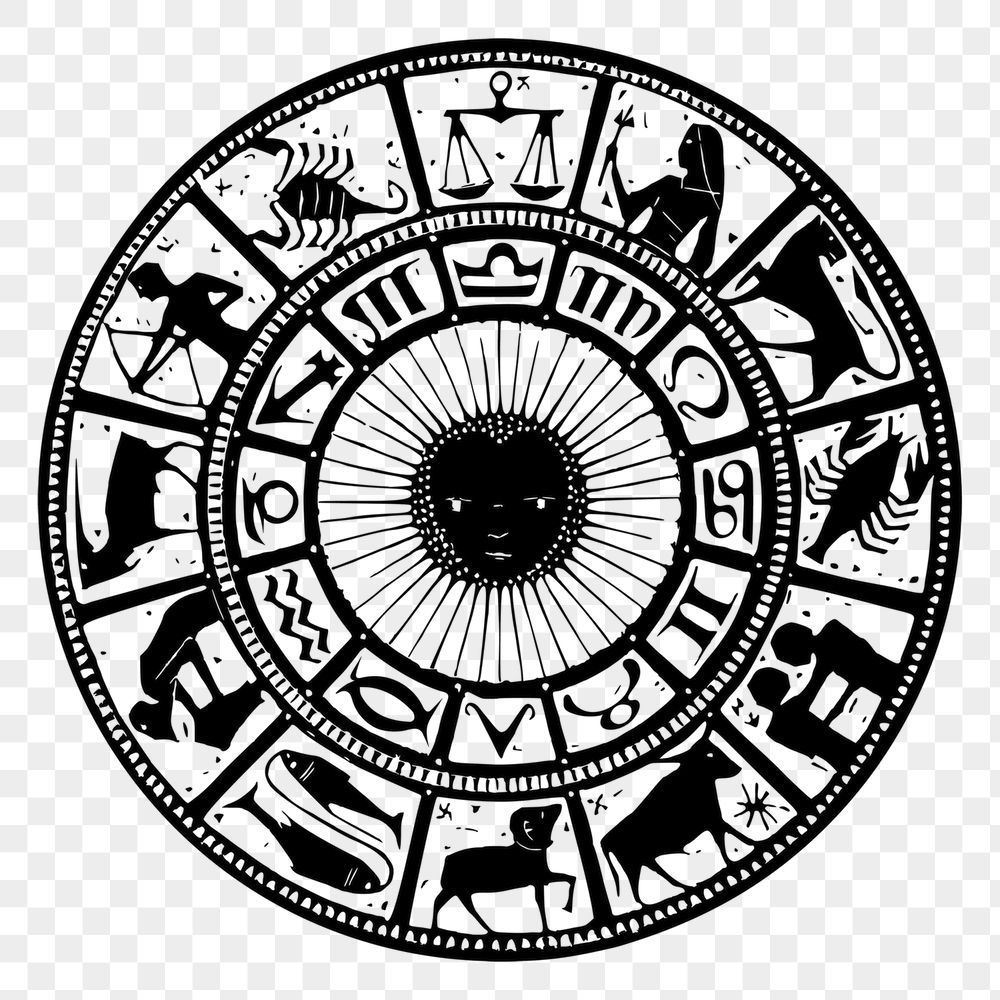
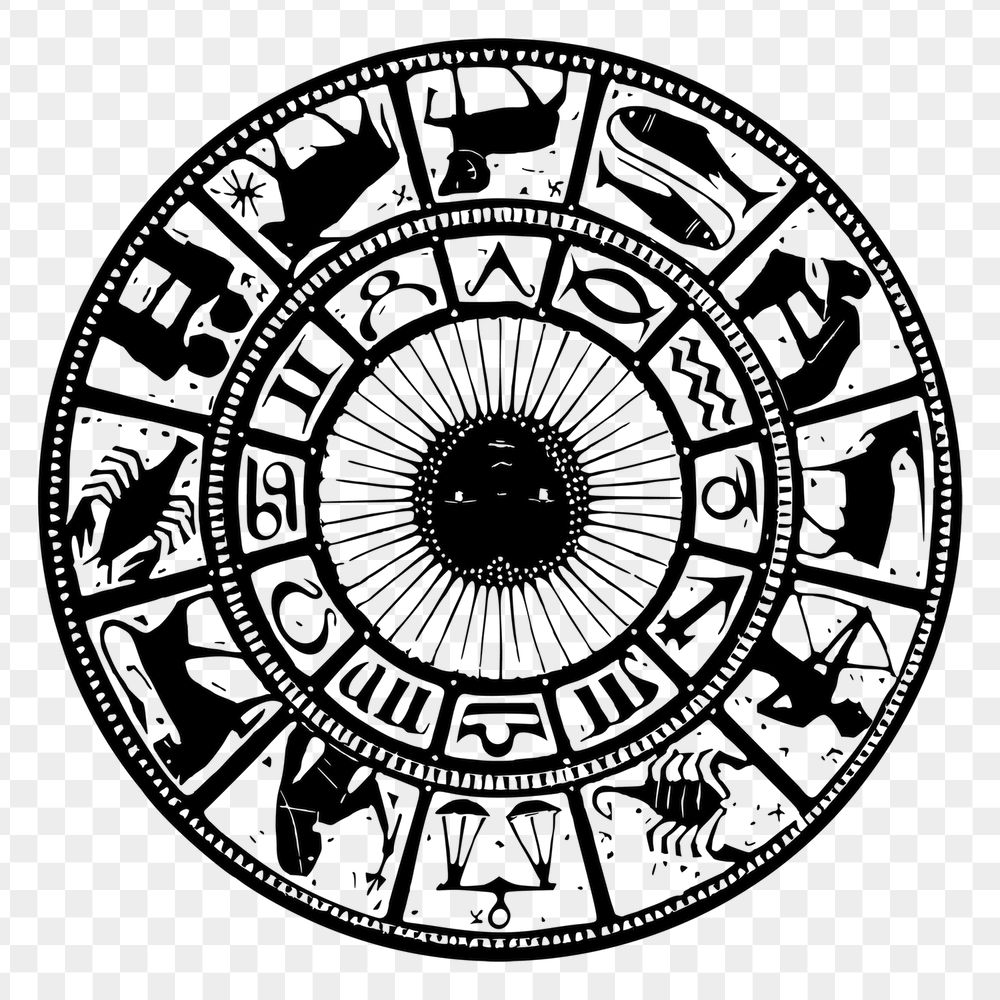
Added year counter to UI. It is troublesome but it works..
Added year counter to UI. It is troublesome but it works..

Changed region(s): [[0.031, 0.031, 0.961, 0.961]]

diff --git a/Assets/TimeController.cs b/Assets/TimeController.cs
@@ -5,6 +5,7 @@ using UnityEngine.UIElements;
 
 public class TimeController : MonoBehaviour
 {
+    [SerializeField] GameObject theZodiac; 
     [SerializeField] GameObject theEarth; 
     [SerializeField] GameObject theEarthContainer; 
      [SerializeField] GameObject theSun;
@@ -28,12 +29,23 @@ public class TimeController : MonoBehaviour
 
     //this is the angle the earth moves around the sun  ...in one year
     [SerializeField] float timeMultiplier;
+
+    [SerializeField] float greatYearAngle;
+    [SerializeField] float ageAngle;
+    [SerializeField] float precessionYearsPerDegree;
+    [SerializeField] float precessionOfTheSunAngleInYear;
+    [SerializeField] float precessionOfTheSunAngleInDay;
+    [SerializeField] float precessionOfTheSunAngleInHour;
+    [SerializeField] float precessionOfTheSunAngleInMinute;
+    [SerializeField] float precessionOfTheSunAngleInSecond;
+
     [SerializeField] float earthAroundSunAngleInYear;
     [SerializeField] float earthAroundSunAngleInMonth;
     [SerializeField] float earthAroundSunAngleInDay;
     [SerializeField] float earthAroundSunAngleInHour;
     [SerializeField] float earthAroundSunAngleInMinute;
     [SerializeField] float earthAroundSunAngleInSecond;
+
     [SerializeField] float earthRotationAngleInDay;
     [SerializeField] float earthRotationAngleInHour;
     [SerializeField] float earthRotationAngleInMinute;
@@ -58,6 +70,15 @@ public class TimeController : MonoBehaviour
 
     void Start()
     {
+        //this is the precession of the equinoxes - one full rotation in 25,800 years
+        greatYearAngle = -360;
+        ageAngle = greatYearAngle / 12;
+        precessionYearsPerDegree = 25800 / 360;
+        precessionOfTheSunAngleInYear = greatYearAngle / 25800;
+        precessionOfTheSunAngleInDay = precessionOfTheSunAngleInYear / 360;
+        precessionOfTheSunAngleInHour = precessionOfTheSunAngleInDay / 24;
+        precessionOfTheSunAngleInMinute = precessionOfTheSunAngleInHour / 60;
+        precessionOfTheSunAngleInSecond = precessionOfTheSunAngleInMinute / 60; 
 
         //this is the angle the earth revolves around the sun  
         earthAroundSunAngleInYear = -360;                               // ...in one year
@@ -73,7 +94,6 @@ public class TimeController : MonoBehaviour
         theSunRotationSummerSolstice.y = theSun.transform.localEulerAngles.y + 270;  
         theSunRotationAutumnalEquinox.y = theSun.transform.localEulerAngles.y + 180; 
         theSunRotationWinterSolstice.y = theSun.transform.localEulerAngles.y + 90; 
-
 
         //this is the angle the earth rotates around its axis
         earthRotationAngleInDay = -360;
@@ -114,6 +134,9 @@ void Update()
 
         //time in seconds since the start of the game
         second = Time.fixedUnscaledTime;
+
+        //this rotates the zodiac, which rotates the zodiac's position
+        theZodiac.transform.Rotate(0, precessionOfTheSunAngleInSecond * timeMultiplier * Time.deltaTime, 0); 
         
         //this rotates the sun, which rotates the earth's position
         theSun.transform.Rotate(0, earthAroundSunAngleInSecond * timeMultiplier * Time.deltaTime, 0);
@@ -132,6 +155,16 @@ void Update()
 
         //update the day counter
         SASuserInterface.updateDaysDisplay(359 - (int) Mathf.Floor(theSun.transform.eulerAngles.y));
+
+        //update the year counter - this is klugey fer shur
+        if (theZodiac.transform.eulerAngles.y < 0.008f)
+        {
+            SASuserInterface.updateYearsDisplay(0);
+        }
+        else
+        {
+            SASuserInterface.updateYearsDisplay(25800 - 241 - (int)Mathf.Floor(((theZodiac.transform.eulerAngles.y) * precessionYearsPerDegree)));
+        }
 
     }
 

diff --git a/Assets/SASUI.cs b/Assets/SASUI.cs
@@ -6,6 +6,7 @@ using TMPro;
 public class SASUI : MonoBehaviour
 {
     [SerializeField] TMP_Text displayDaysEllapsed;
+    [SerializeField] TMP_Text displayYearsEllapsed;
     [SerializeField] int daysEllapsedValue;
 
     void Start()
@@ -19,6 +20,10 @@ public class SASUI : MonoBehaviour
 
     }
 
+    public void updateYearsDisplay(int CountOfYears)
+    {
+        displayYearsEllapsed.SetText("Years: " + CountOfYears.ToString());
+    }
     public void updateDaysDisplay(int CountOfDays)
     {
         displayDaysEllapsed.SetText("Days: " + CountOfDays.ToString());
